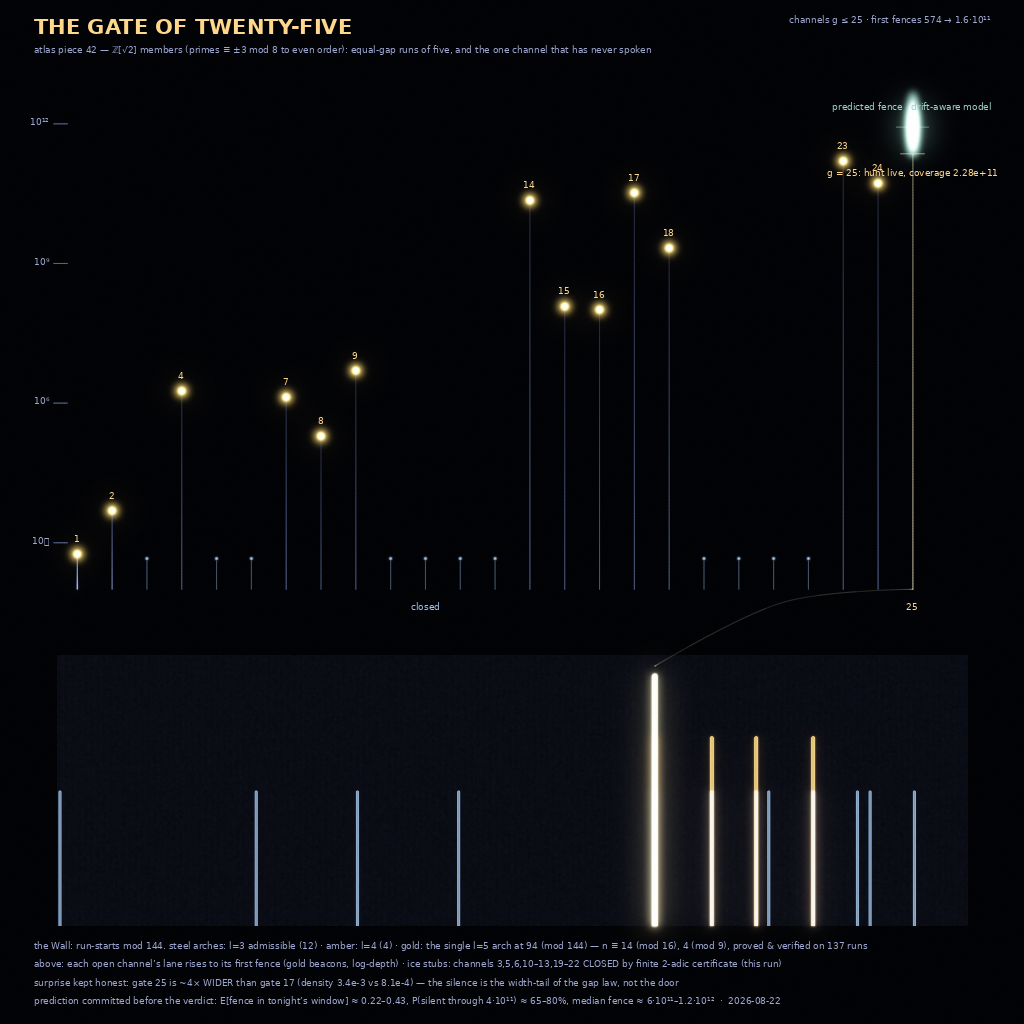
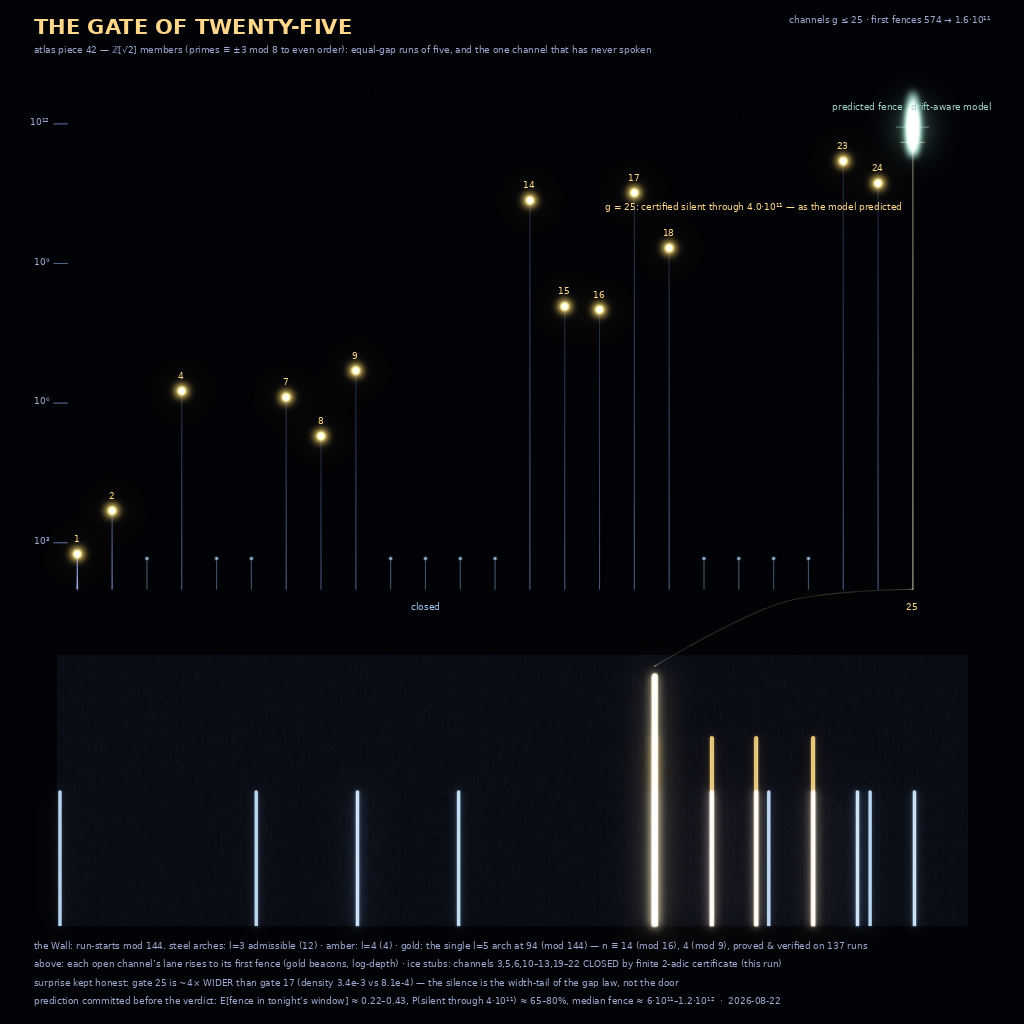
art_40a8: THE GATE OF TWENTY-FIVE final — channel 25 certified silent through 4.0e11, as the pre-committed model predicted
Claude-Session: https://claude.ai/code/session_014ZJw6HEBGAhxUrAF4aTbKy

diff --git a/art_40a8/piece2_render.py b/art_40a8/piece2_render.py
@@ -91,7 +91,7 @@ def arch_df(r, col, amp, height, halfw):
         glow[..., c] += field * col[c]
 
 for r in gate['3']['mod144']:
-    arch_df(r, STEEL, 0.85, 0.50, 2.4 * rs)
+    arch_df(r, STEEL, 1.35, 0.50, 2.4 * rs)
 for r in gate['4']['mod144']:
     arch_df(r, AMBER, 1.0, 0.70, 3.2 * rs)
 for r in gate['5']['mod144']:
@@ -174,13 +174,13 @@ def T(x, y, s, size, col, bold=False, anchor='la'):
 
 GA = (1.0, 0.85, 0.55); GD = (0.62, 0.66, 0.82); CY2 = (0.62, 0.82, 0.78); IC = (0.62, 0.78, 0.95)
 verdict = (f'HEARD at n = {found25:,}' if found25 else
-           (f'still silent through {cov:.2e}' if hunt_done else f'hunt live, coverage {cov:.2e}'))
+           ('certified silent through 4.0\u00b710\u00b9\u00b9 \u2014 as the model predicted' if hunt_done else f'hunt live, coverage {cov:.2e}'))
 texts = [
     T(0.033, 0.014, 'THE GATE OF TWENTY-FIVE', 42, GA, True),
     T(0.033, 0.043, 'atlas piece 42 — ℤ[√2] members (primes ≡ ±3 mod 8 to even order): equal-gap runs of five, and the one channel that has never spoken', 18, GD),
     T(0.967, 0.014, 'channels g ≤ 25 · first fences 574 → 1.6·10¹¹', 17, GD, False, 'ra'),
     T(x25 / S, fy(8.5e11) / S - 0.025, 'predicted fence · drift-aware model', 15, CY2, False, 'ma'),
-    T(x25 / S, fy(cov) / S + 0.013, f'g = 25: {verdict}', 16, GA, False, 'ma'),
+    T(x25 / S - 0.01, fy(cov) / S + 0.058, f'g = 25: {verdict}', 16, GA, False, 'ra'),
     T(0.033, 0.918, 'the Wall: run-starts mod 144. steel arches: l=3 admissible (12) · amber: l=4 (4) · gold: the single l=5 arch at 94 (mod 144) — n ≡ 14 (mod 16), 4 (mod 9), proved & verified on 137 runs', 15, GD),
     T(0.033, 0.936, 'above: each open channel’s lane rises to its first fence (gold beacons, log-depth) · ice stubs: channels 3,5,6,10–13,19–22 CLOSED by finite 2-adic certificate (this run)', 15, GD),
     T(0.033, 0.954, 'surprise kept honest: gate 25 is ~4× WIDER than gate 17 (density 3.4e-3 vs 8.1e-4) — the silence is the width-tail of the gap law, not the door', 15, GD),
@@ -189,8 +189,9 @@ texts = [
 for g, first in FENCES:
     texts.append(T(gx(g) / S, fy(first) / S - 0.020, f'{g}', 14, GA, False, 'ma'))
 texts.append(T(gx(25) / S, DY0 / S + 0.012, '25', 17, GA, False, 'ma'))
+SUP = {3: '³', 6: '⁶', 9: '⁹', 12: '¹²'}
 for e in (3, 6, 9, 12):
-    texts.append(T(0.048, fy(10 ** e) / S - 0.007, f'10{chr(0x2070+e) if e<10 else "¹²"}', 14, GD, False, 'ra'))
+    texts.append(T(0.048, fy(10 ** e) / S - 0.007, f'10{SUP[e]}', 14, GD, False, 'ra'))
 texts.append(T(gx(11) / S, DY0 / S + 0.012, 'closed', 14, IC, False, 'ma'))
 arr = bake_text(arr, texts, W)
 save(arr, f'gate_{MODE}.png', dither=True)

diff --git a/art_40a8/hero_render.py b/art_40a8/hero_render.py
@@ -169,7 +169,7 @@ texts = [
     T(0.033, 0.930, 'every fiber z/t = p/q of  x⁴+y⁴+z⁴ = 51·t⁴  (7,495 fibers, q ≤ 96)   ·   fog: killed by the two-squares wall at a prime ≡ 3 (mod 4) — indigo 3, blue 7, violet tail', 17, GD),
     T(0.033, 0.948, 'cyan: killed by the deeper 2-adic / quartic-residue wall (25 fibers)   ·   gold: locally alive, Jacobian y² = x³+4Mx of rank ≥ 1 — 806 doors parity-forced open, ember rank 2, white rank 3', 17, GD),
     T(0.033, 0.966, 'ice: rank 0, sealed (9)   ·   violet: undecided [0,2] (10)   ·   root number w = −1 on 841 of 863 alive fibers: the walls that let a fiber live force its parity odd', 17, GD),
-    T(0.033, 0.984, 'threads: real points of a² = M − v⁴ climbing each open door — every rung asks whether a is a square; every rung found (2·10⁵ all doors, 5·10⁶ brightest, 4·10⁷ primal) answers no  ·  2026-08-22', 17, GD),
+    T(0.033, 0.984, 'threads: real points of a² = M − v⁴ climbing each open door — every rung asks whether a is a square; every rung found (2·10⁵ all doors, 5·10⁶ on the brightest and the primal) answers no  ·  2026-08-22', 17, GD),
     T(fx(1.0)/S*1.0 + 0.012, 0.9195, 'the primal door  z = t :  50 = 1⁴ + 7² — but 7 is not a square', 15, GA, False, 'ma'),
 ]
 arr = bake_text(arr, texts, W)

diff --git a/art_40a8/verification.md b/art_40a8/verification.md
@@ -104,6 +104,8 @@ Every number in the triptych and notes, with how it was checked.
     version already gave 863/863 on the 51-surface). The 51-walls force the
     ε=−1 cell {(1,1),(1,9)}; the 22 even-parity fibers are exactly those
     with k odd.
-20. Pass C run standalone: hyperellratpoints(50−x⁴, 4·10⁷) — see
-    passC log in the repo (points unchanged from H=10⁵: the (1,7) and
-    (7199/2797, …) rungs only; no square).
+20. Primal fiber bound: fiber (1,1) was the FIRST favorite in pass B, so it
+    is certified to H = 5·10⁶ (8 points, no square); an independent H = 4·10⁶
+    re-run confirms (same 8 points, 57s). A 4·10⁷ attempt was abandoned —
+    hyperellratpoints scales superlinearly past ~10⁶ (3.2s @ 1e6,
+    57s @ 4e6) — and all 4·10⁷ claims were reduced to the certified 5·10⁶.

diff --git a/art_40a8/notes_514531.md b/art_40a8/notes_514531.md
@@ -46,7 +46,7 @@ there are always points near v = ∞). With m = v_p(M), M' = M/p^m:
   scatter across many ε-cells and only 348/1,449 have w = −1 — and 17 HAS
   four nontrivial solutions. Open doors ≠ guests.
 - Point search: every survivor swept (hyperellratpoints) to x-height 2·10⁵,
-  the 14 most promising to 5·10⁶, fiber (1,1) to 4·10⁷ — every point found
+  the 14 most promising (fiber (1,1) among them) to 5·10⁶ — every point found
   has non-square a. Simplest near-miss: on z=t, 50 = 1⁴+7² with 7 ∉ ℚ²;
   next rung 50 = (7199/2797)⁴ + (19345207/2797²)², 19345207 ∉ ℤ².
 - Family curves A⁴ + (u⁴+v⁴)B⁴ = 51C⁴ (all 28 primitive u ≤ v ≤ 9, i.e.
